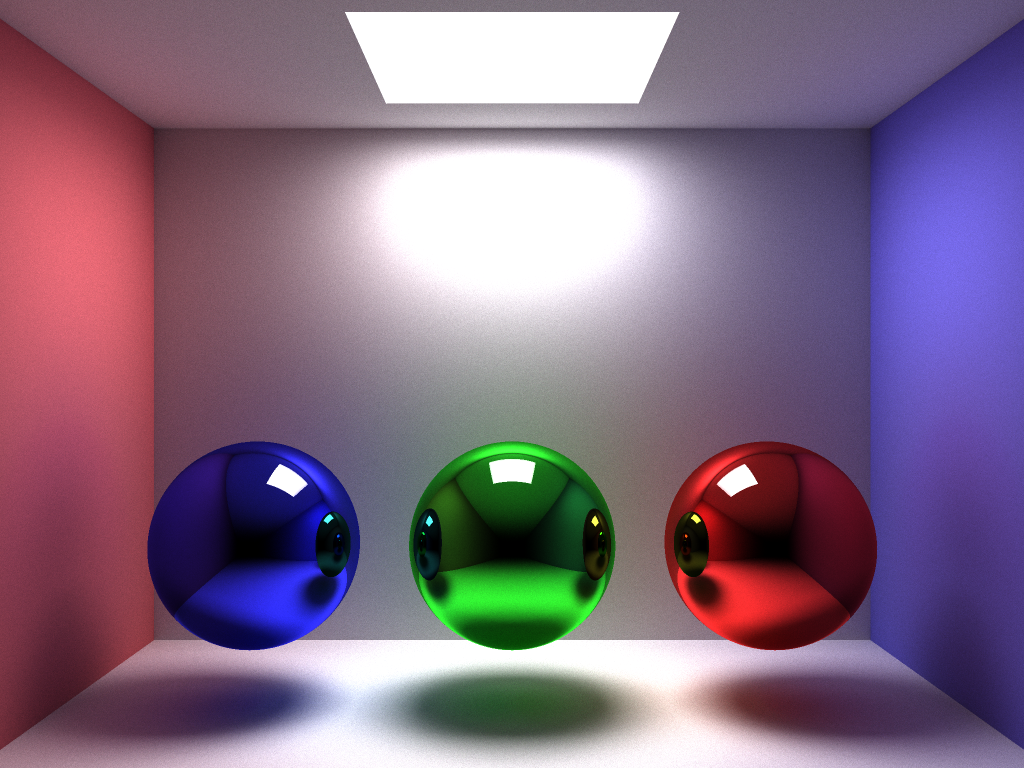
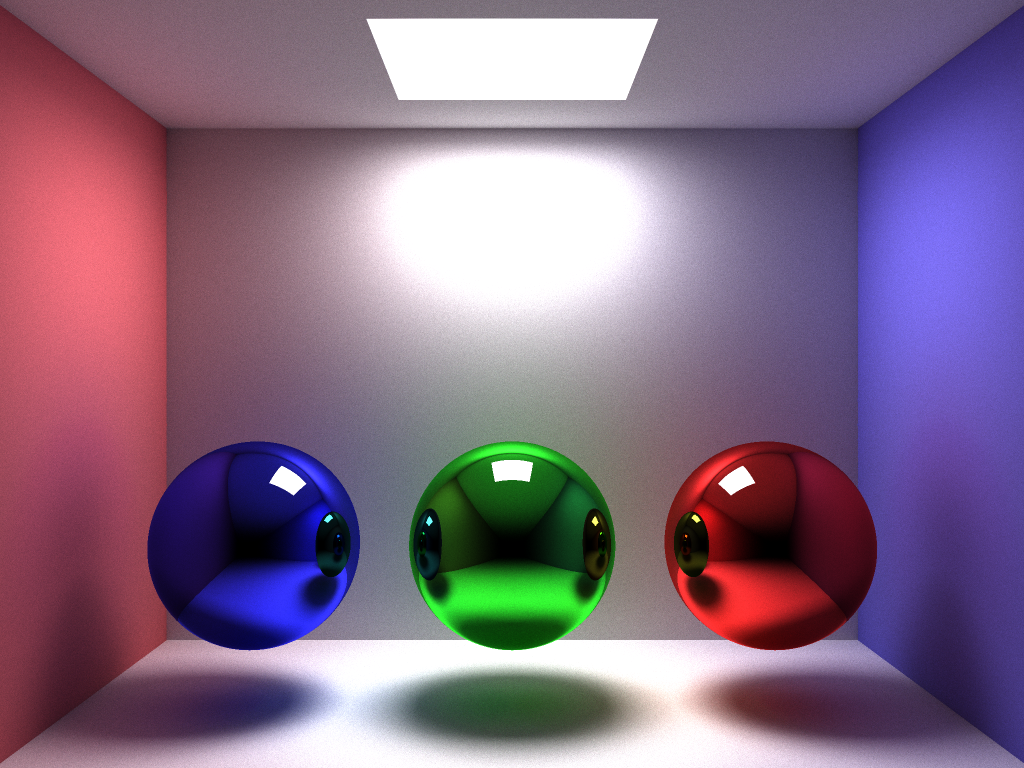
spheres

diff --git a/basicObjects.cpp b/basicObjects.cpp
@@ -491,23 +491,23 @@ void Ray::Trace()
 	prng64 StackLocalPRNG;
 	StackLocalPRNG.set_seed_value(PRNGSeedValue);
 
-	pPosition=pFirstCollisionPoint;
-
 	const Object *TransparentObject=nullptr;
-	Vec3f Direction=pDefaultDirection;
+	Vec3f Position=pFirstCollisionPoint, Direction=pDefaultDirection;
 
 	if(pFirstCollisionPoint.X==0.0f && pFirstCollisionPoint.Y==0.0f && pFirstCollisionPoint.Z==0.0f)
 	{
-		if(RunOnce(pPosition, Direction, nullptr))
+		if(nullptr==RunOnce(pFirstCollisionPoint, Direction, TransparentObject))
 		{
-			pFirstCollisionPoint=pPosition;
+			pFirstCollisionPoint.X=
+			pFirstCollisionPoint.Y=
+			pFirstCollisionPoint.Z=0.0f;
 		}
 	}
 
 	uint32_t ReflectionsHappened=0;
 	while(ReflectionsHappened++<Ray::REFLECTIONS_LIMIT)
 	{
-		const Object *Obstacle=RunOnce(pPosition, Direction, TransparentObject);
+		const Object *Obstacle=RunOnce(Position, Direction, TransparentObject);
 		if(Obstacle==nullptr)
 		{
 			break;
@@ -531,7 +531,7 @@ void Ray::Trace()
 		{
 			TransparentObject=nullptr;
 		}
-		Vec3f SurfaceNormalVec=Obstacle->GetNormalVector(pPosition);
+		Vec3f SurfaceNormalVec=Obstacle->GetNormalVector(Position);
 		SurfaceNormalVec.Normalize();
 		if(StackLocalPRNG.get_rn_uint()<Obstacle->DiffusionChance())
 		{
@@ -549,7 +549,7 @@ void Ray::Trace()
 			Direction=Direction - (SurfaceNormalVec*2.0) * SurfaceNormalVec.Dot(Direction);
 		}
 		Direction.Normalize();
-		pPosition=pPosition+Direction;
+		Position=Position+Direction;
 	}
 	PRNGSeedValue=StackLocalPRNG.get_rn_uint();
 	Color=Color+ColorSample;

diff --git a/main.cpp b/main.cpp
@@ -171,20 +171,21 @@ int main(int argc, char *argv[])
 	NewScene->AddObject(LightSource1);
 	// NewScene->AddObject(LightSource2);
 
-	NewScene->AddObject(Construct);
+	// NewScene->AddObject(Construct);
 	// NewScene->AddObject(SphereGyroidIntersection);
 	// NewScene->AddObject(SphereSchwarzIntersection);
 
-	// NewScene->AddObject(BlueSphere);
-	// NewScene->AddObject(RedSphere);
-	// NewScene->AddObject(GreenSphere);
+	NewScene->AddObject(BlueSphere);
+	NewScene->AddObject(RedSphere);
+	NewScene->AddObject(GreenSphere);
 	// NewScene->AddObject(Cylinder2);
 	// NewScene->AddObject(Cube2);
 	// NewScene->AddObject(Torus1);
 
 	char fileName[128];
-	int32_t i, samples_per_pixel=16;
-	for(i=0; i<10; i++, samples_per_pixel*=2)
+	int32_t i, samples_per_pixel=32;
+	for(i=0; i<8; i++, samples_per_pixel*=2)
+	// for(i=0; i<40; i++)
 	{
 		// float spec=i*0.1;
 

diff --git a/basicObjects.hpp b/basicObjects.hpp
@@ -151,7 +151,6 @@ class Ray
 {
 	Vec3f pDefaultDirection;
 	Vec3f pFirstCollisionPoint;
-	Vec3f pPosition;
 public:
 	Vec3f Color;
 	vector <Object *> *SceneObjects;